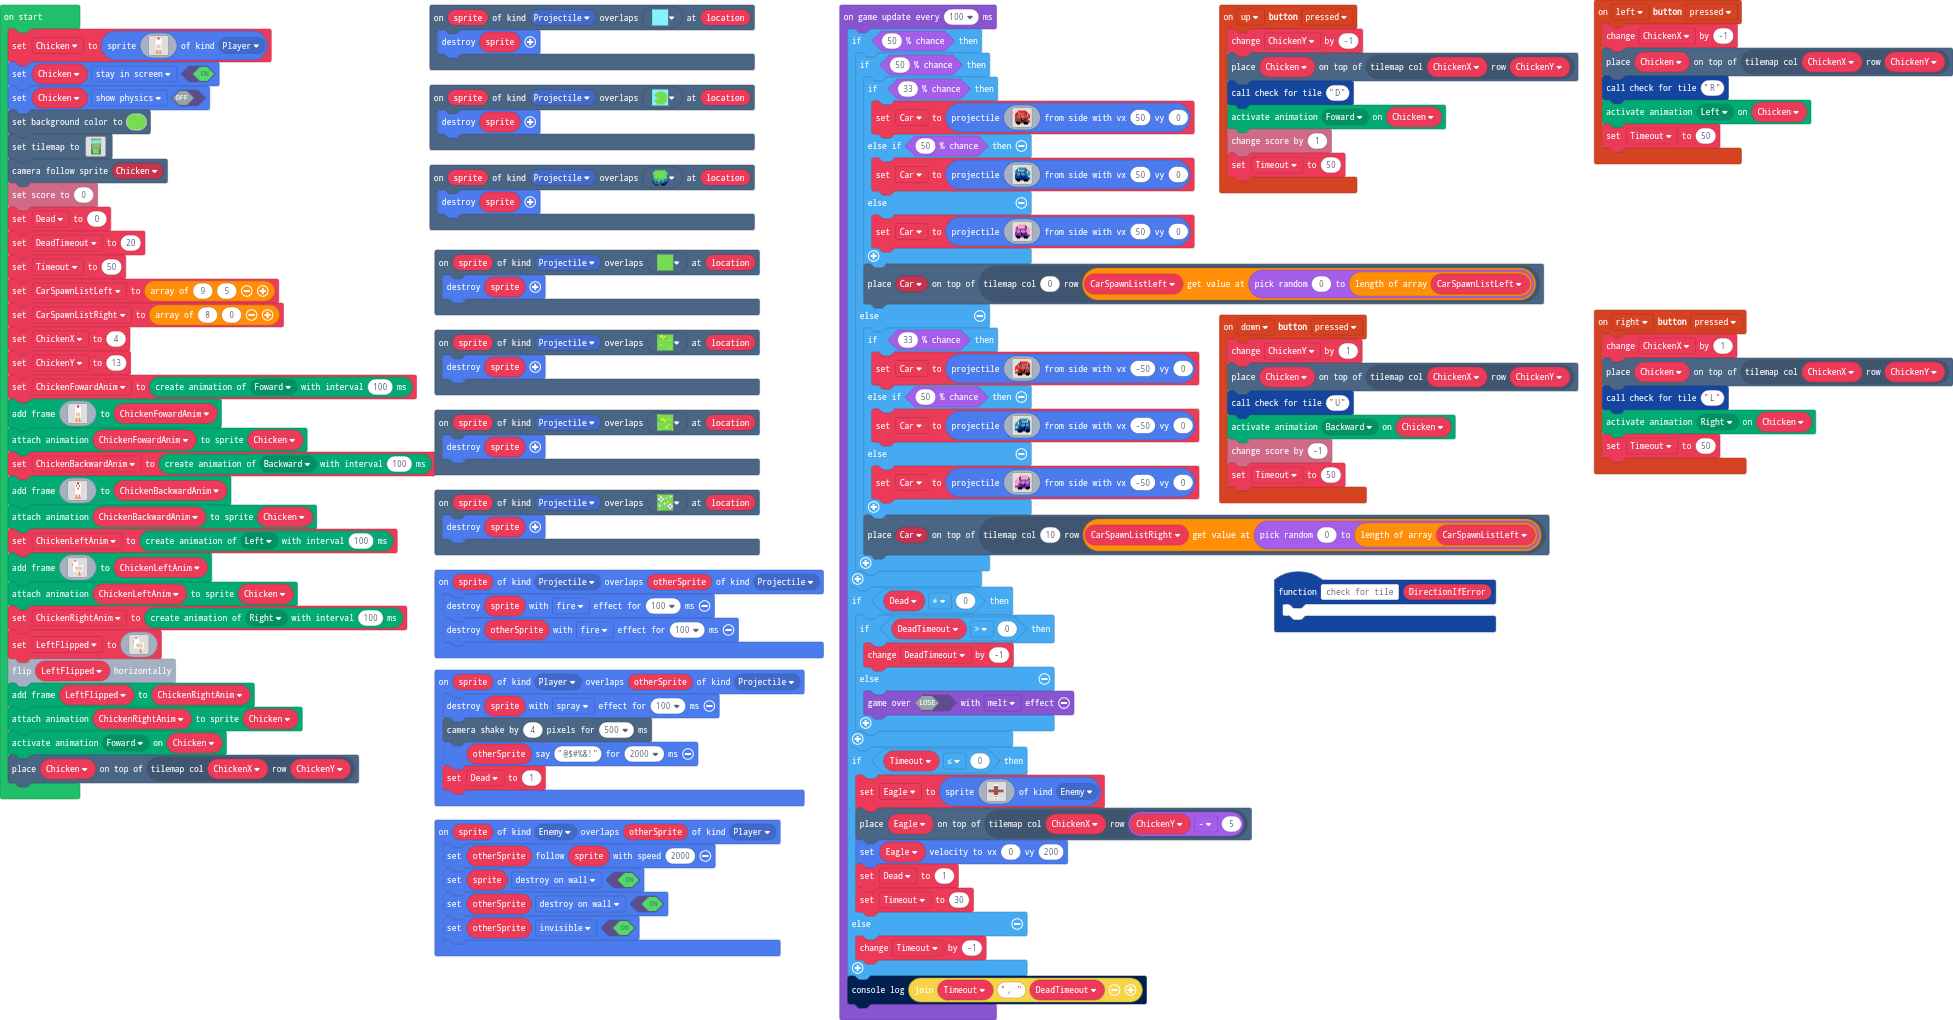
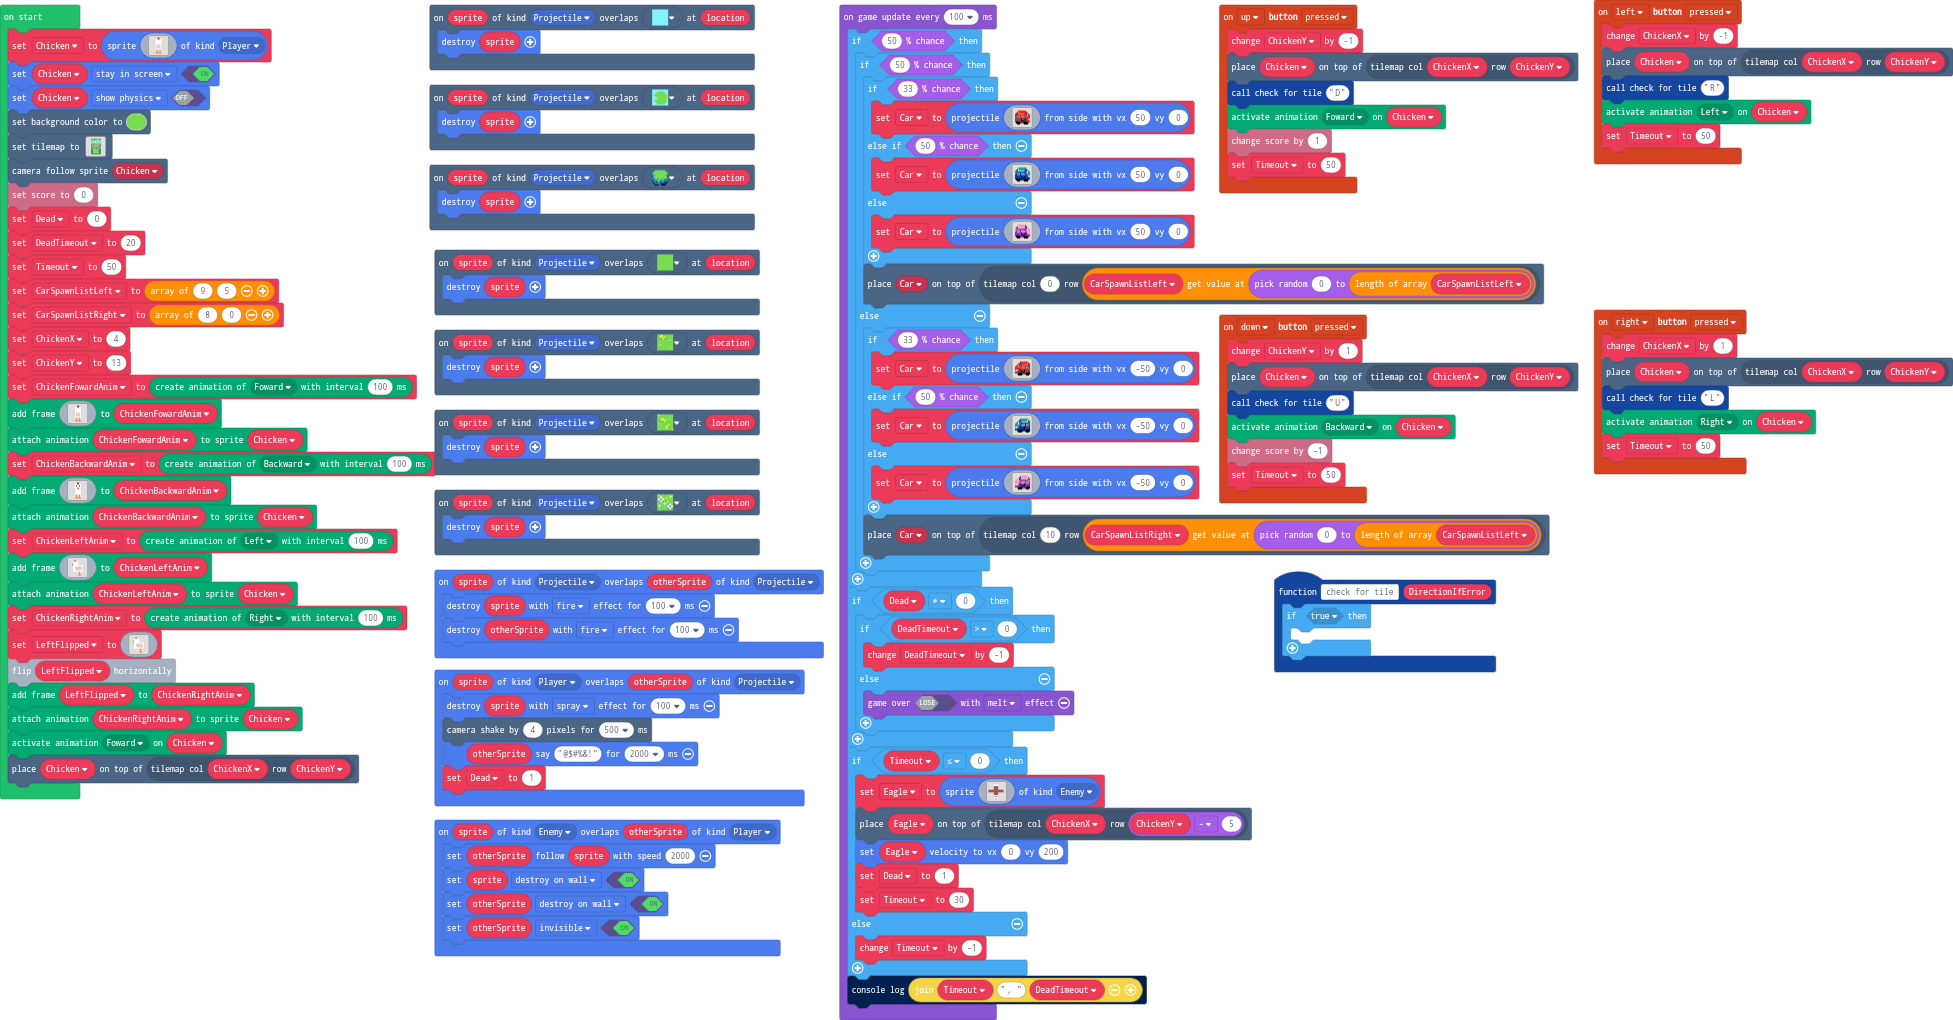
Update main.blocks, main.ts

Changed region(s): [[0.6559, 0.5775, 0.7808, 0.6686]]

diff --git a/main.ts b/main.ts
@@ -104,7 +104,9 @@ controller.down.onEvent(ControllerButtonEvent.Pressed, function () {
     Timeout = 50
 })
 function check_for_tile (DirectionIfError: string) {
-	
+    if (true) {
+    	
+    }
 }
 sprites.onOverlap(SpriteKind.Enemy, SpriteKind.Player, function (sprite, otherSprite) {
     otherSprite.follow(sprite, 2000)
